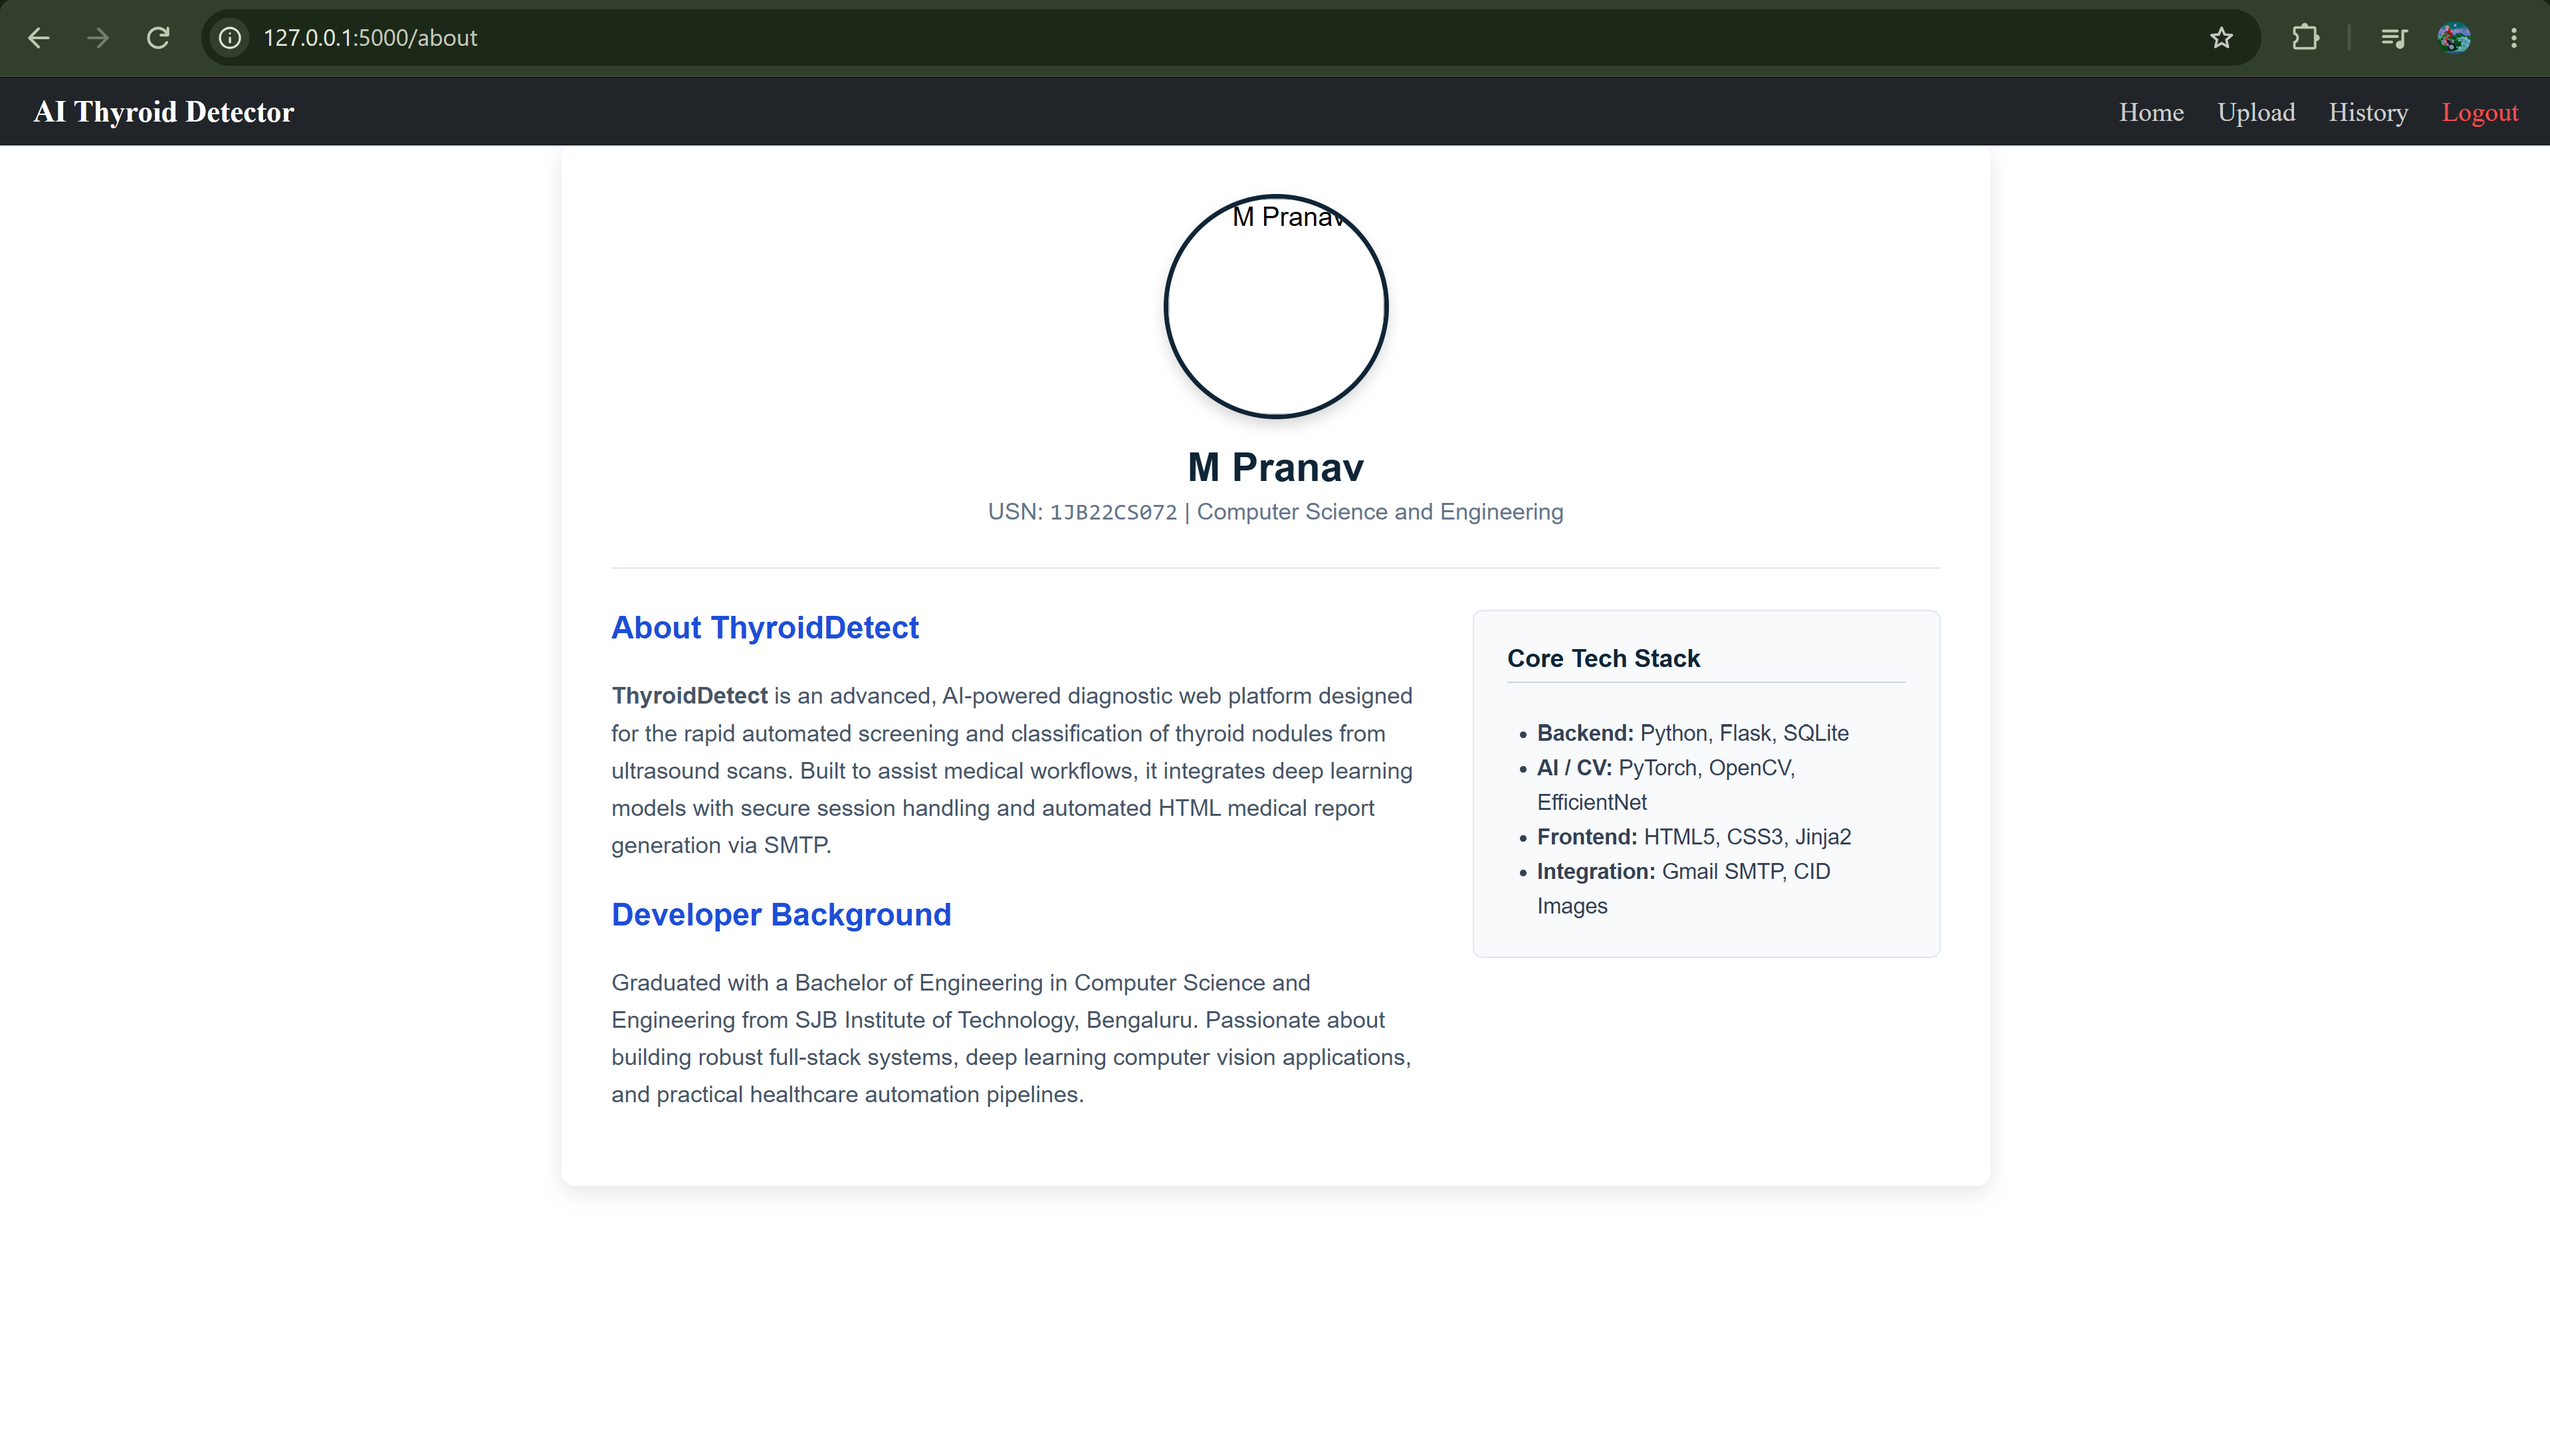
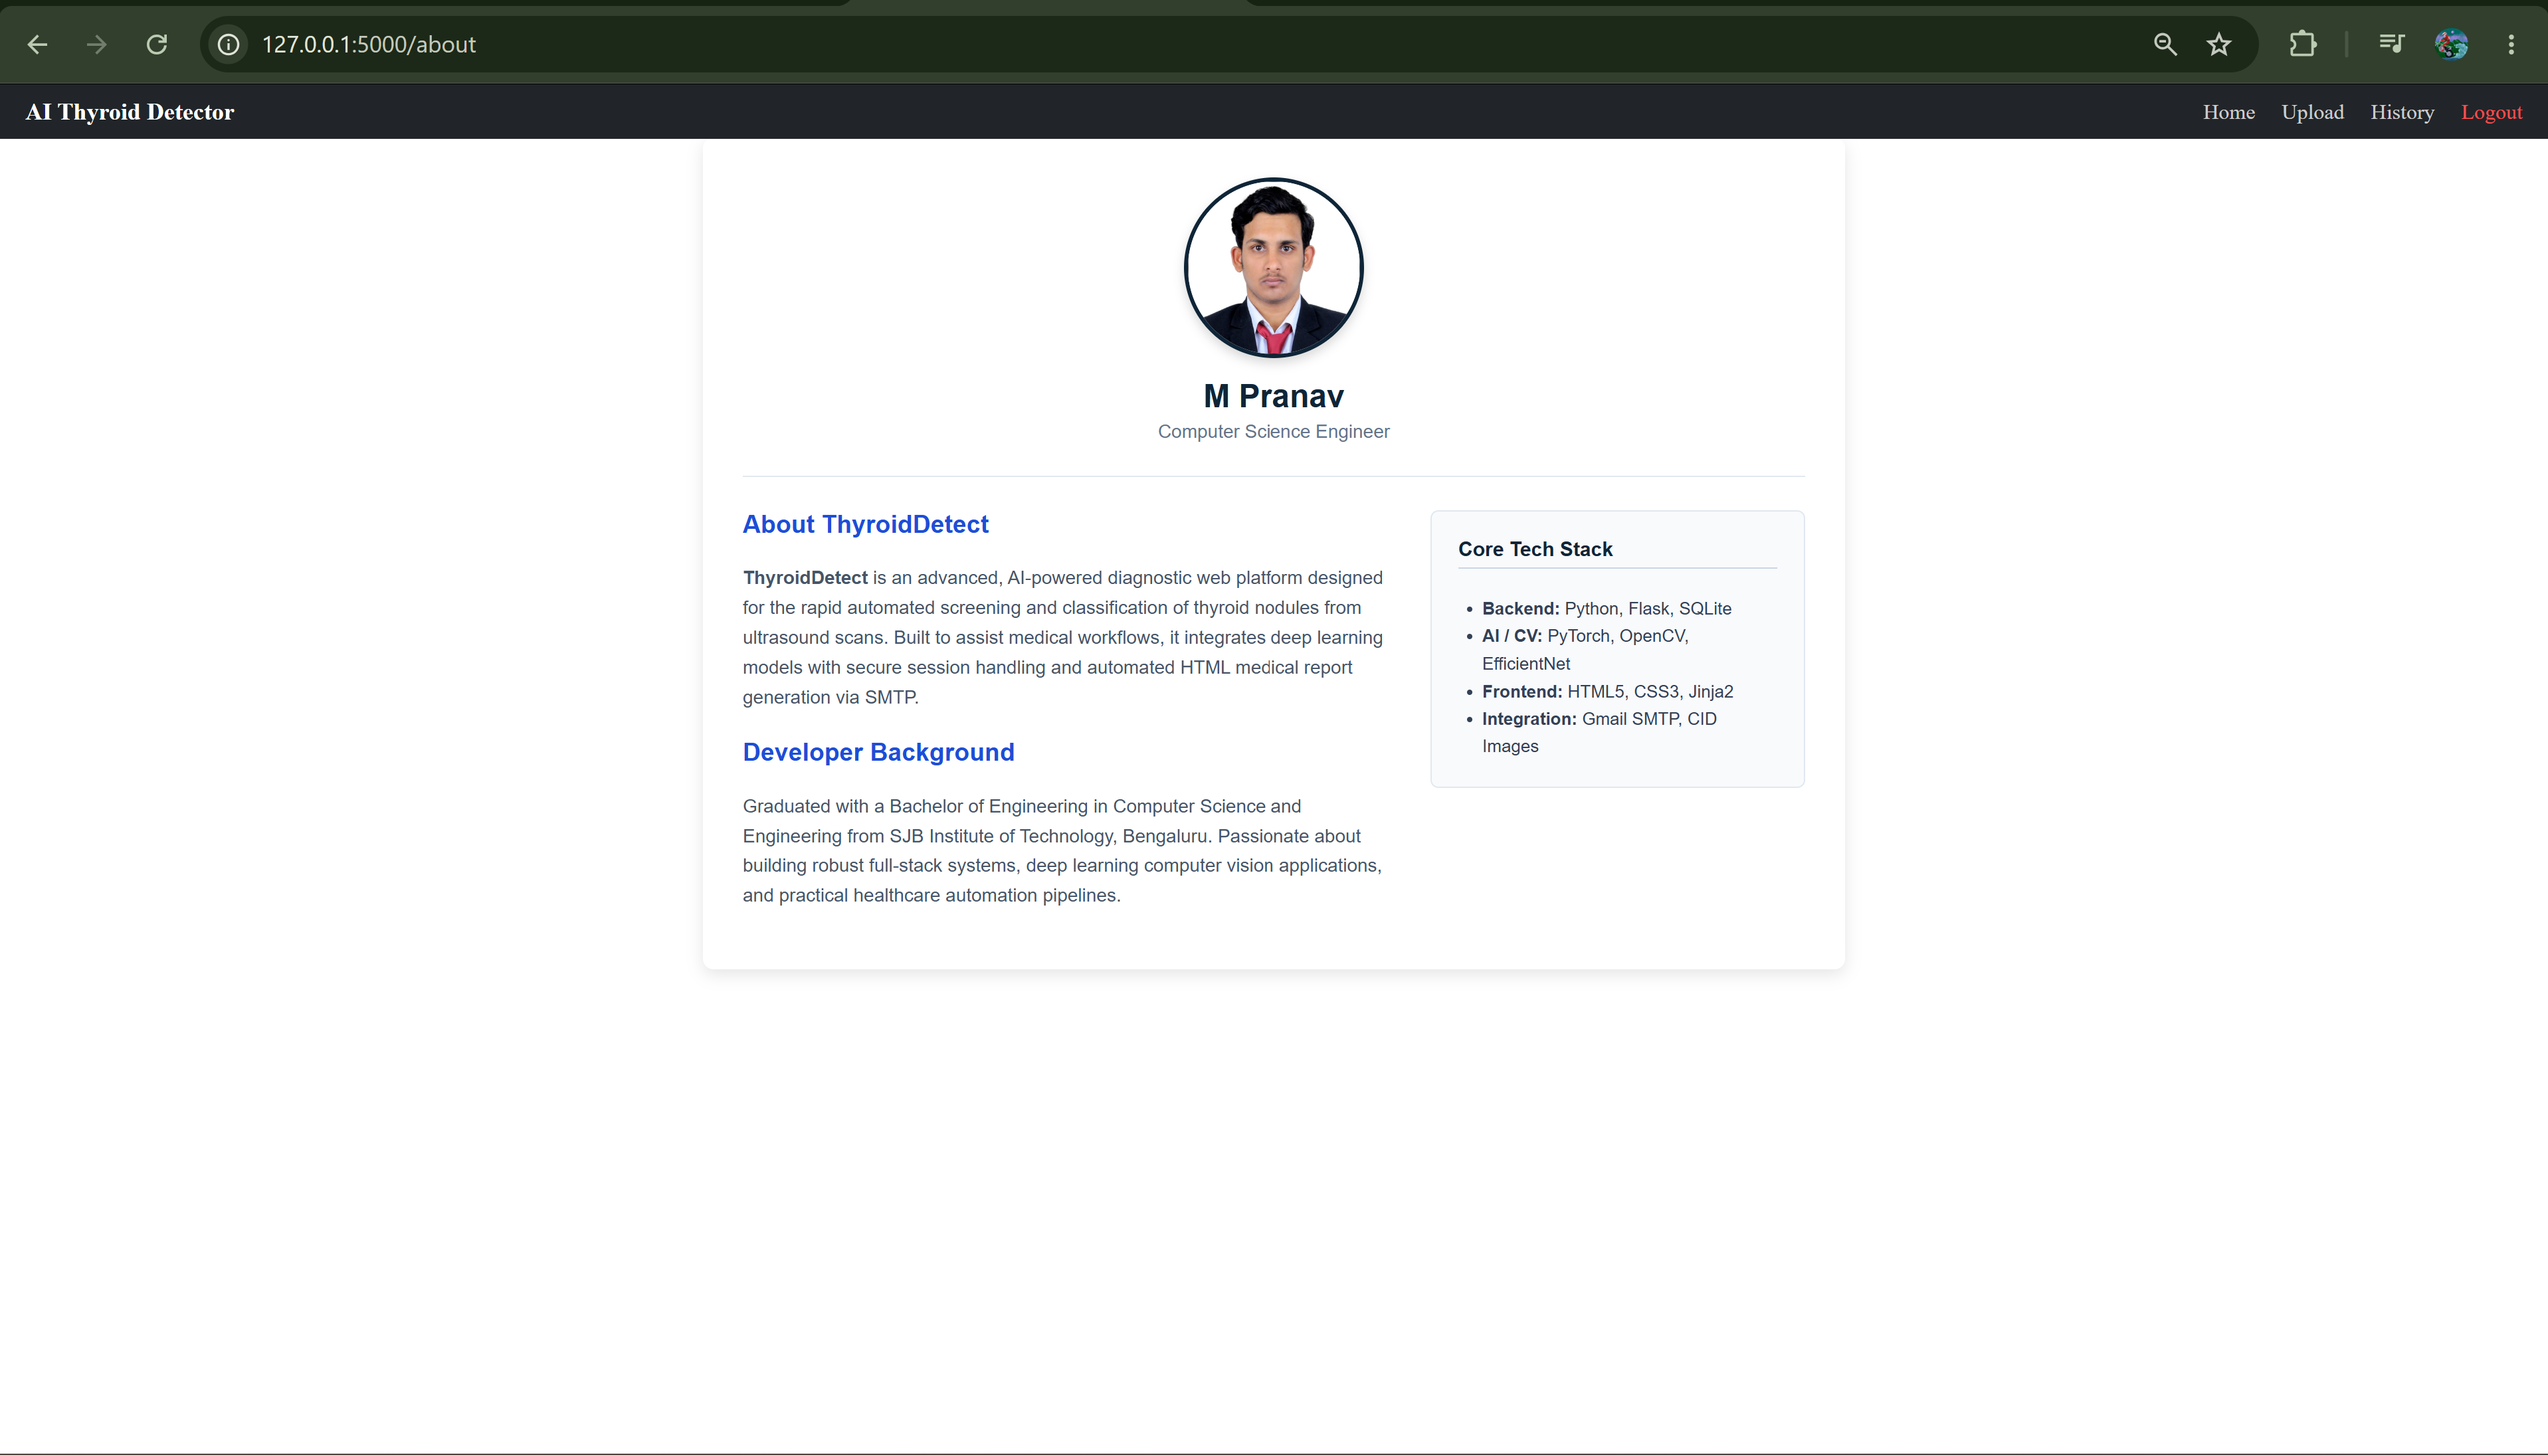
Update UI images, remove watermarked assets, and fix static routes

Changed region(s): [[0.0, 0.0, 1.0, 0.6469], [0.2482, 0.6777, 0.5585, 0.7701]]

diff --git a/templates/login.html b/templates/login.html
@@ -42,7 +42,7 @@
     <div class="split-screen">
         <!-- Left Side: Image -->
         <div class="left-bg">
-            <img src="/thyroid-image" alt="Thyroid Anatomy">
+            <img src="{{ url_for('static', filename='thyroid_image.png') }}" alt="Thyroid Anatomy">
         </div>
         
         <!-- Right Side: The Login Form -->

diff --git a/app.py b/app.py
@@ -160,7 +160,7 @@ init_db()
 # =====================================================
 @app.route('/thyroid-image')
 def get_thyroid_image():
-    return send_from_directory(os.path.join(app.root_path, 'templates'), 'thyroid_image.png')
+    return send_from_directory(app.root_path, 'thyroid_image.jpg')
 
 @app.route('/me-image')
 def me_image():
